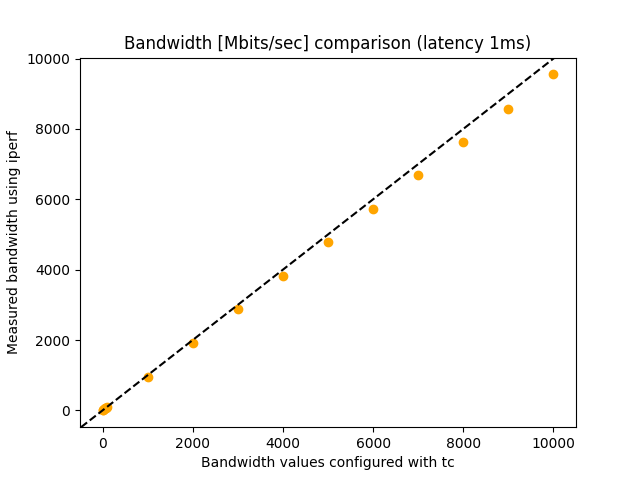
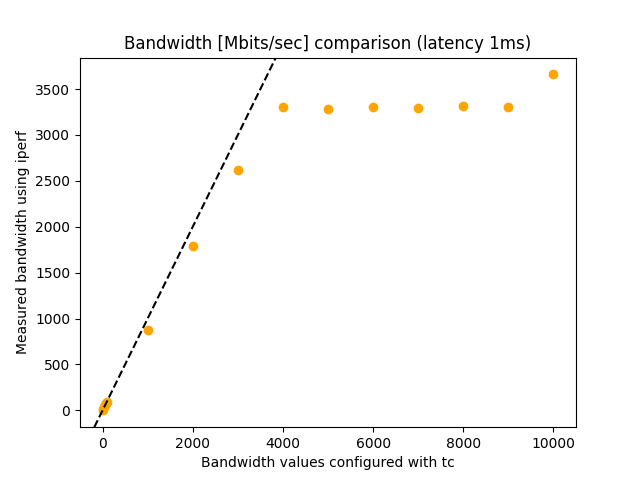
making experiment code to work with any nodes

diff --git a/bw-latency-experiment.py b/bw-latency-experiment.py
@@ -10,10 +10,11 @@ import re
 import numpy as np
 from setup import configure_link, read_state_json
 import matplotlib.pyplot as plt
+import importlib
 
 
-server = 'c1'
-client = 'r1'
+server = 's1'
+client = 'c1'
 
 bandwidth_values = [1] + list(np.arange(10, 101, 20)) + list(np.arange(0, 10001, 1000)[1:])
 bandwidth_results = []
@@ -24,6 +25,14 @@ latency_values = list(np.arange(1, 20, 5)) + list(np.arange(20, 110, 20))
 latency_results = []
 bandwidth_const = 2
 
+config = importlib.import_module('dumbbell')
+server_ip = 0
+client_ip = 0
+for node_name, node_param in config.nodes.items():
+	if(node_name == server):
+		server_ip = node_param[0]
+	if(node_name == client):
+		client_ip = node_param[0]
 
 def configure_params(links, params):
 	"""
@@ -39,7 +48,7 @@ def configure_params(links, params):
 		configure_link(endpoint1[0], endpoint1[2], params)
 
 
-# setup iperf server on r1
+# setup iperf server on server node(destination node)
 os.system(f"docker exec {server} iperf -s &")
 
 for i in range(len(bandwidth_values)):
@@ -50,7 +59,7 @@ for i in range(len(bandwidth_values)):
 	links = current_state["links"]
 	configure_params(links, tc_params)
 
-	result = subprocess.run(['docker', 'exec', client, 'iperf', '-c', server], stdout=subprocess.PIPE)
+	result = subprocess.run(['docker', 'exec', client, 'iperf', '-c', server_ip], stdout=subprocess.PIPE)
 	output = result.stdout.decode('utf-8')
 	print(output)
 
@@ -69,7 +78,8 @@ plt.axline((0, 0), slope=1, c='black', linestyle='--')
 plt.xlabel('Bandwidth values configured with tc')
 plt.ylabel('Measured bandwidth using iperf')
 plt.title(f'Bandwidth [Mbits/sec] comparison (latency {latency_const}ms)')
-plt.savefig('bandwidth-measurements')
+plotname = str(server) + "_" + str(client) + "bandwidth-measurements"
+plt.savefig(plotname)
 plt.show()
 
 
@@ -81,7 +91,7 @@ for i in range(len(latency_values)):
 	links = current_state["links"]
 	configure_params(links, tc_params)
 
-	result = subprocess.run(['docker', 'exec', client, 'ping', '-c', '10', server], stdout=subprocess.PIPE)
+	result = subprocess.run(['docker', 'exec', client, 'ping', '-c', '10', server_ip], stdout=subprocess.PIPE)
 	output = result.stdout.decode('utf-8')
 	print(output)
 
@@ -96,7 +106,8 @@ plt.axline((0, 0), slope=1, c='black', linestyle='--')
 plt.xlabel('Latency values configured with tc')
 plt.ylabel('Measured latency using ping')
 plt.title('Latency comparison [ms]')
-plt.savefig('latency-measurements')
+plotname = str(server) + "_" + str(client) + "latency-measurements"
+plt.savefig(plotname)
 plt.show()
 
 
